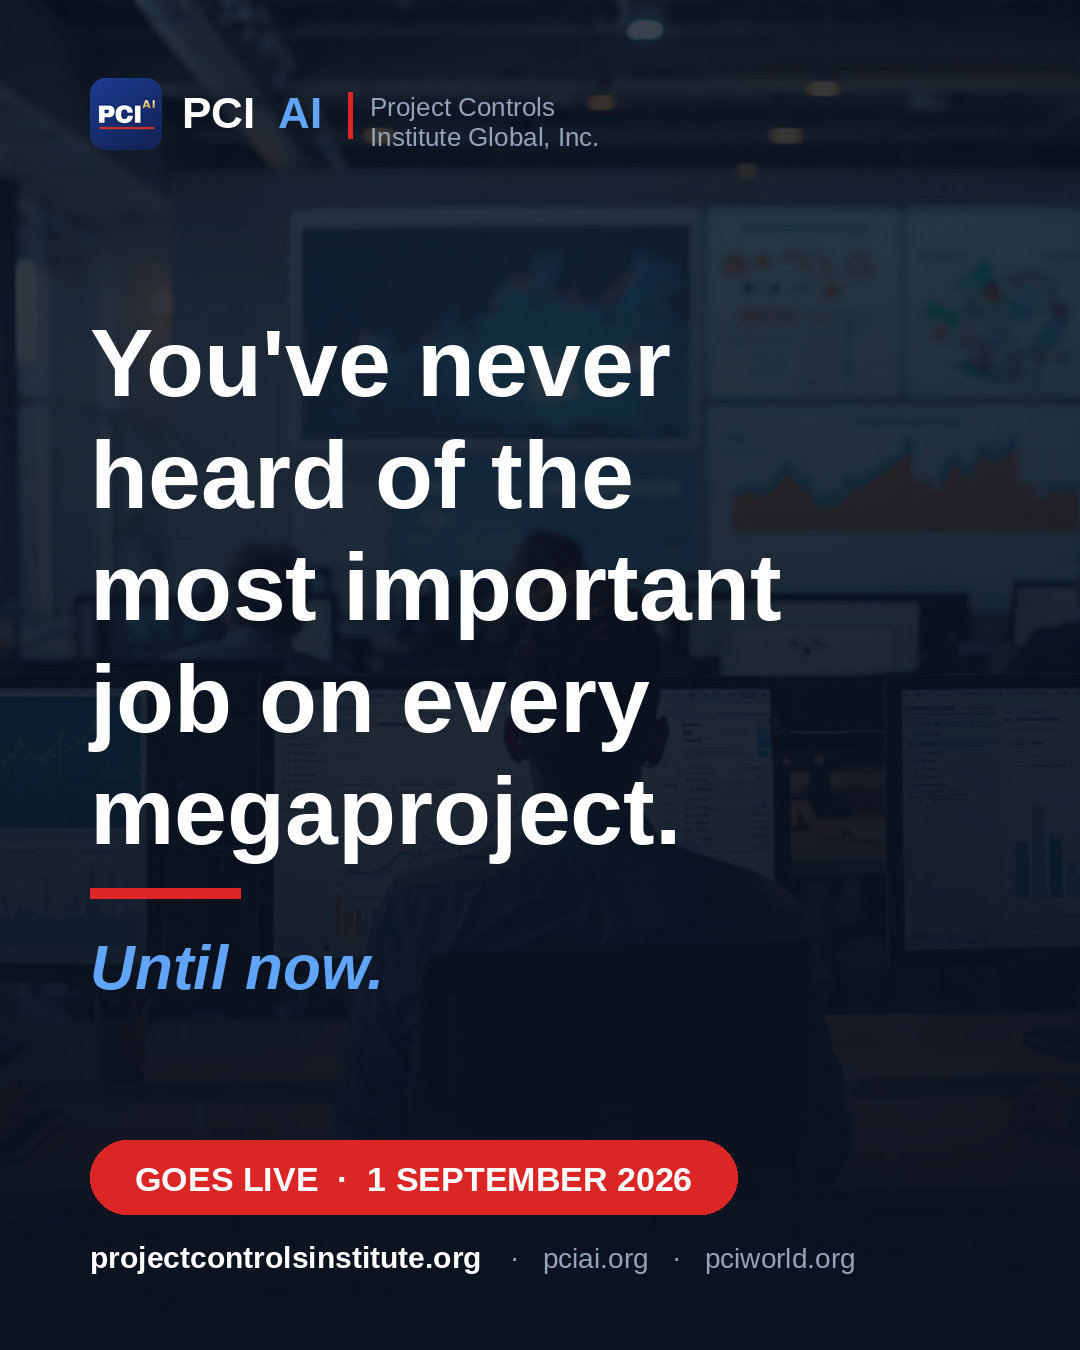
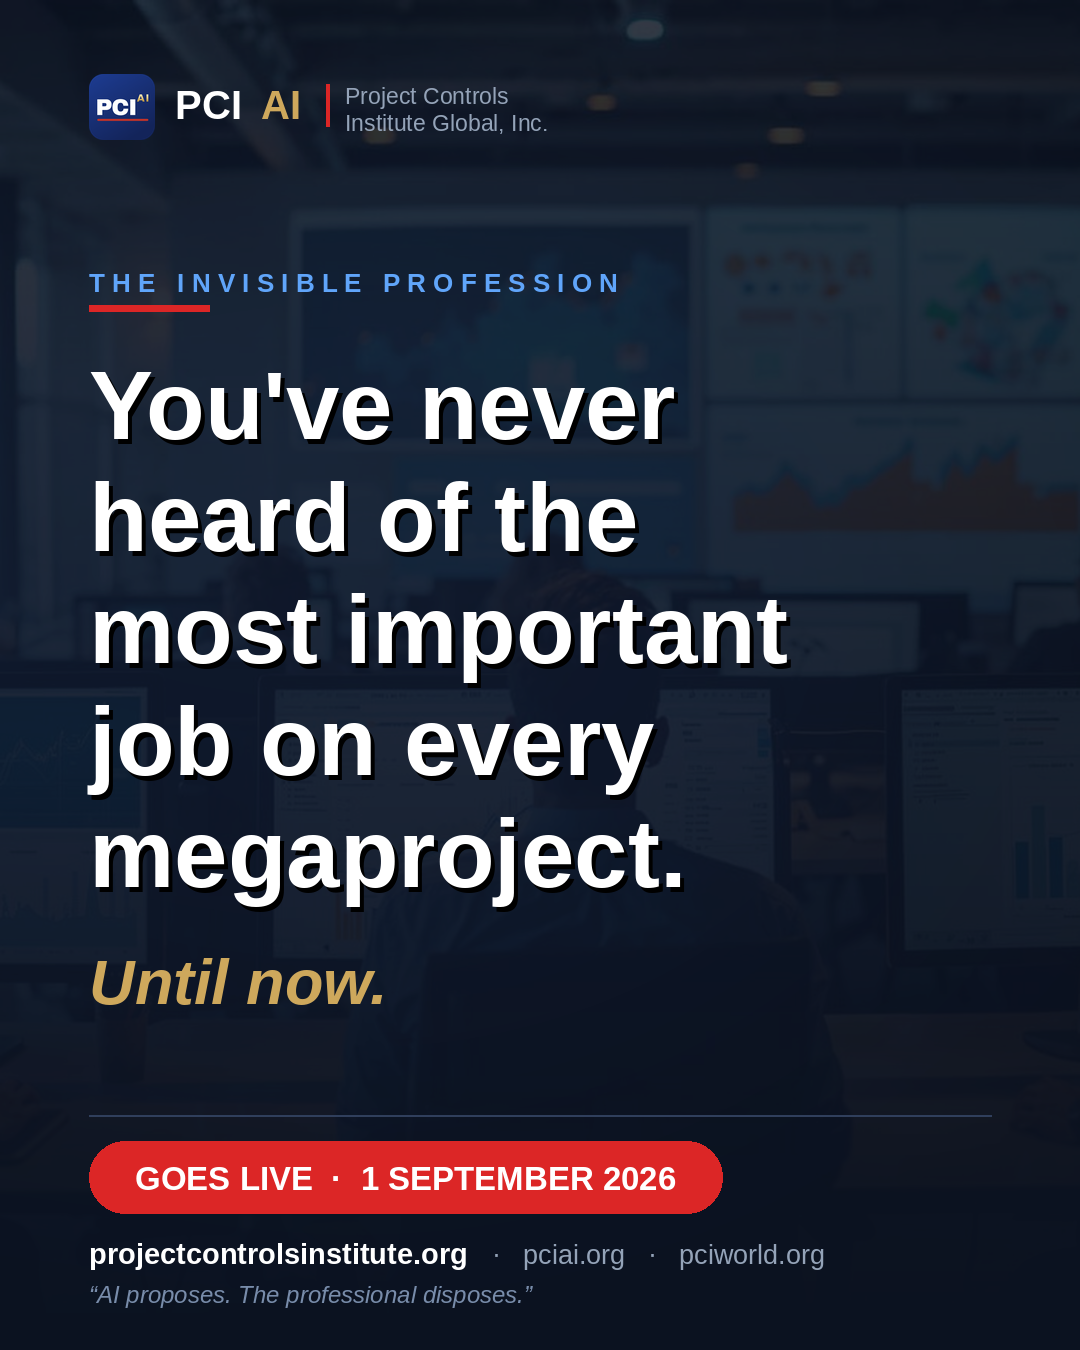
Premium redesign of viral post creative + $30/day boost plan
Hero image upgraded: cinematic vignette and glow, letterspaced kicker,
drop-shadowed headline, gold accent matching the logo, hairline rules,
slogan footer; adds a 1080x1080 square variant for ad placements. The
playbook gains the paid section: LinkedIn can only sponsor company-page
posts, so the personal post runs organic while the page post carries the
US$30/day x 30-day (~US$900) engagement campaign, with exact Campaign
Manager settings, title targeting and health metrics.

Claude-Session: https://claude.ai/code/session_01QrWdjWybfRT68AXDi3hV5u

Changed region(s): [[0.0611, 0.1867, 0.7333, 0.7467], [0.0917, 0.84, 0.7944, 0.9644], [0.0917, 0.0622, 0.55, 0.1244]]

diff --git a/docs/marketing/viral-launch-post.md b/docs/marketing/viral-launch-post.md
@@ -1,6 +1,7 @@
 # The viral launch post
 
-Asset: `pci-viral-post-image.png` (1080×1350 — attach as the post image).
+Assets: `pci-viral-post-image.png` (1080×1350 — attach to the organic post) and
+`pci-viral-post-square.png` (1080×1080 — used automatically by some ad placements).
 Post from a **personal profile** (founder/lead), tagging the company page — personal posts
 reach 3–10× further than company posts. Repost from the company page 2–4 hours later.
 
@@ -112,6 +113,35 @@ reach 3–10× further than company posts. Repost from the company page 2–4 ho
   to reshare with one personal sentence, not a bare repost.
 - **Follow-up:** 48 h later, post the 17-slide launch deck as a document post for the
   people the image post warmed up.
+
+## Paid boost — US$30/day × 30 days (US$900 total)
+
+**The one thing to know first:** LinkedIn cannot boost a *personal* post — only *company
+page* posts can be sponsored. So run both tracks: the personal post carries the organic/
+viral push, and the **company-page version is the one you put the $900 behind.**
+
+Exact click-path (10 minutes):
+
+1. Publish the company-page variant (above) from the PCI page with the hero image.
+2. On the published post, click **Boost post** (or go to **linkedin.com/campaignmanager**
+   → create account if first time → link the PCI page).
+3. **Objective:** Engagement (drives reactions/comments/shares — matches the viral goal).
+4. **Audience:** Location — Saudi Arabia, UAE, Qatar, UK, US, India, Pakistan, Australia
+   (the chapter priority markets). Attributes → Job title: Planning Engineer, Senior
+   Planner, Cost Engineer, Cost Controller, Project Controls Engineer/Manager, Quantity
+   Surveyor, Estimator, Risk Manager, PMO Manager, Project Manager, Project Finance
+   Analyst. (The Part 4 title list from the playbook.) Aim for an audience of 100k–400k;
+   if too small, switch titles to Job function = Engineering + Program & Project
+   Management with seniorities Entry→Director.
+5. **Untick** "LinkedIn Audience Network" (keep it on LinkedIn only) and untick audience
+   expansion — keeps every dollar on the exact audience.
+6. **Budget & schedule:** Daily budget **$30** · start 1 September 2026 (or today for
+   pre-launch warm-up) · end date 30 days later · total cap ≈ **$900**.
+7. **Bidding:** Maximum delivery (default). Save payment details and launch.
+8. **Measure:** check Campaign Manager every 2–3 days — CTR above ~0.6% and cost per
+   engagement under ~$1.50 is healthy; if a region massively outperforms, clone the
+   campaign and shift budget to it. All link clicks carry
+   `?utm_source=linkedin&utm_medium=paid&utm_campaign=launch-2026`.
 
 ## Legal guardrails (all already respected in the copy)
 
